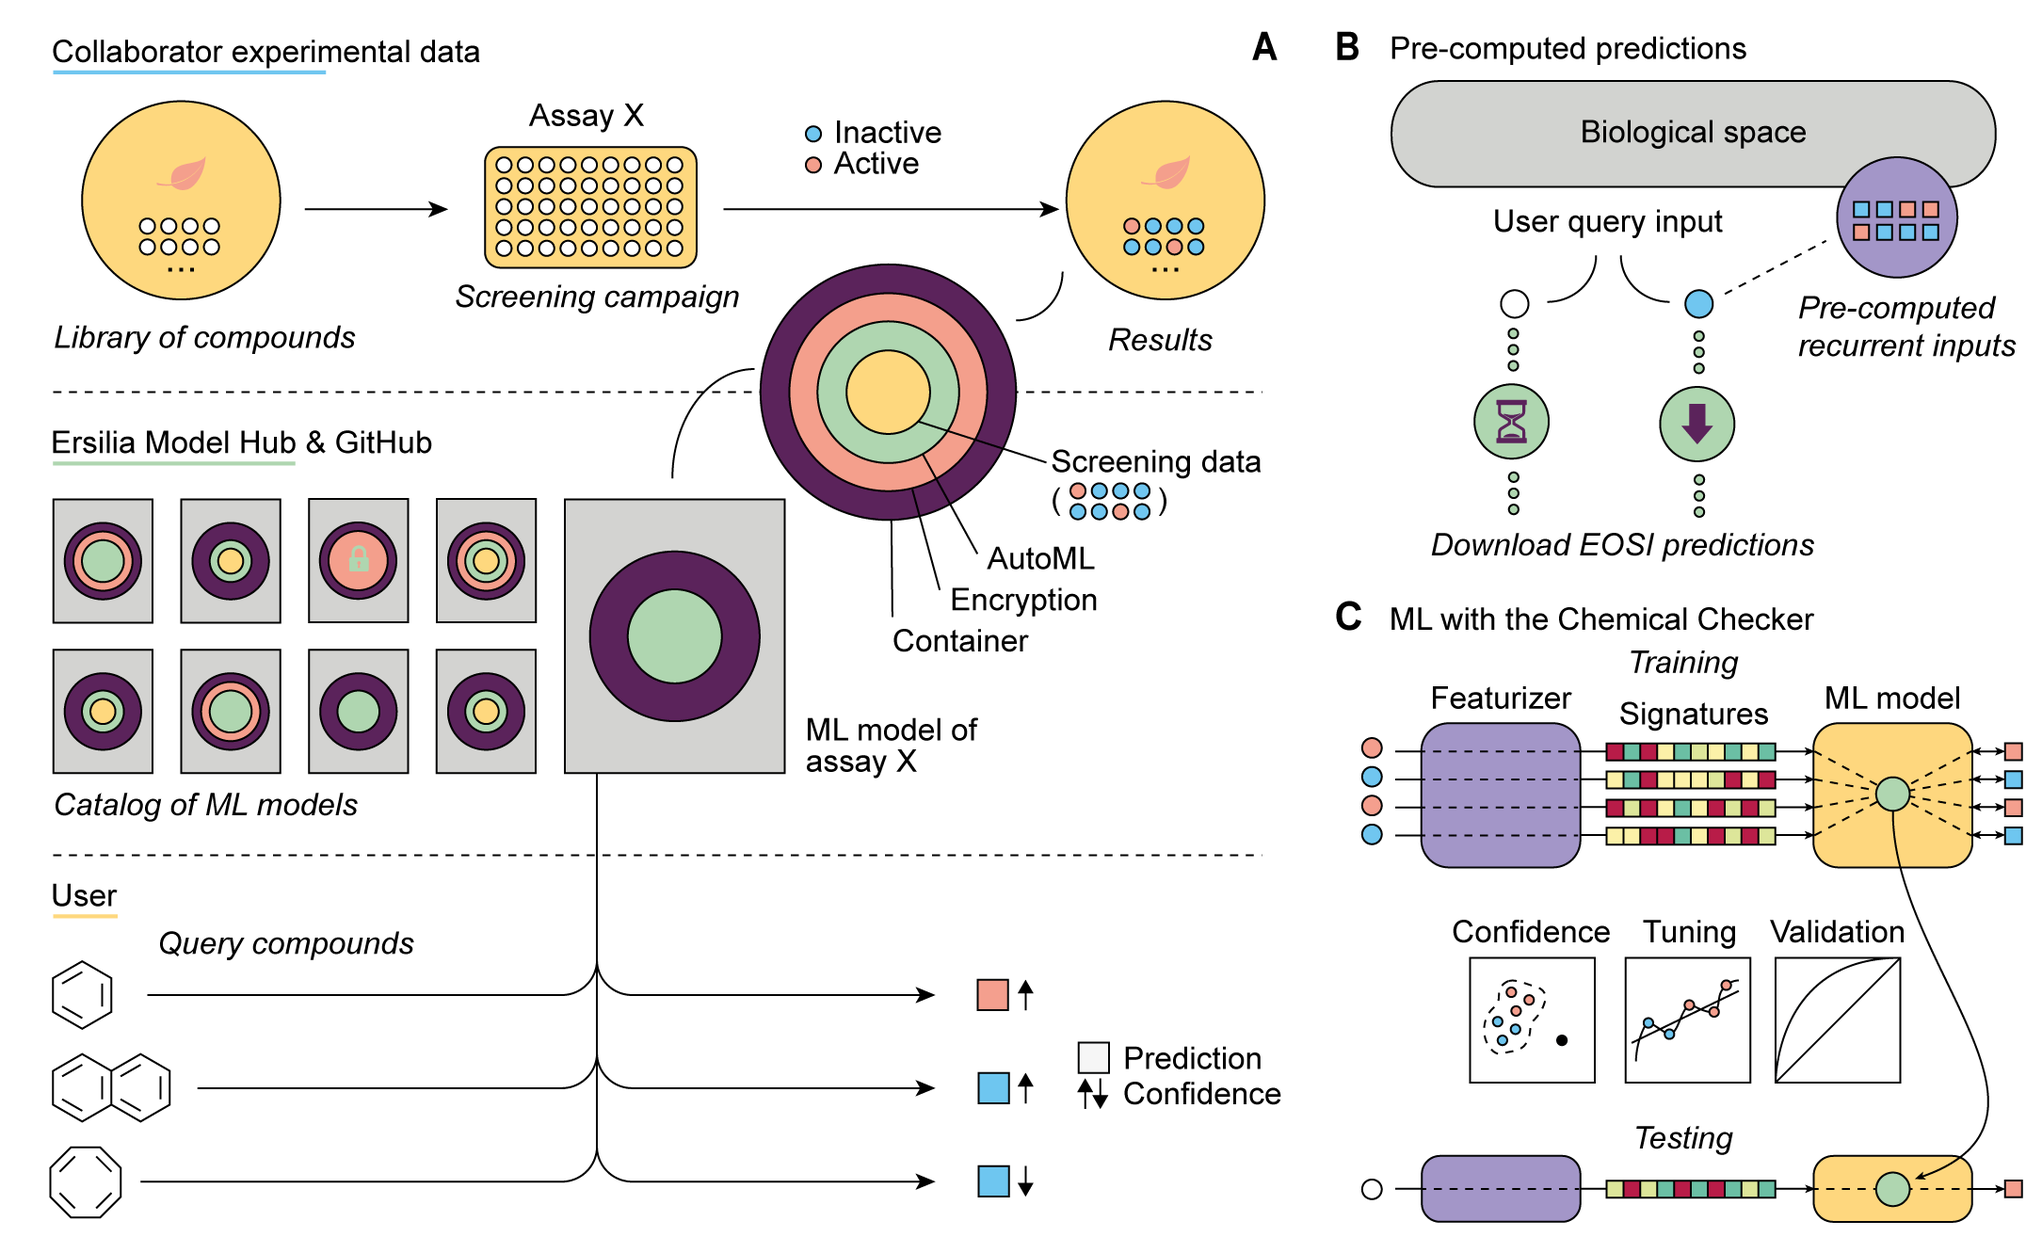
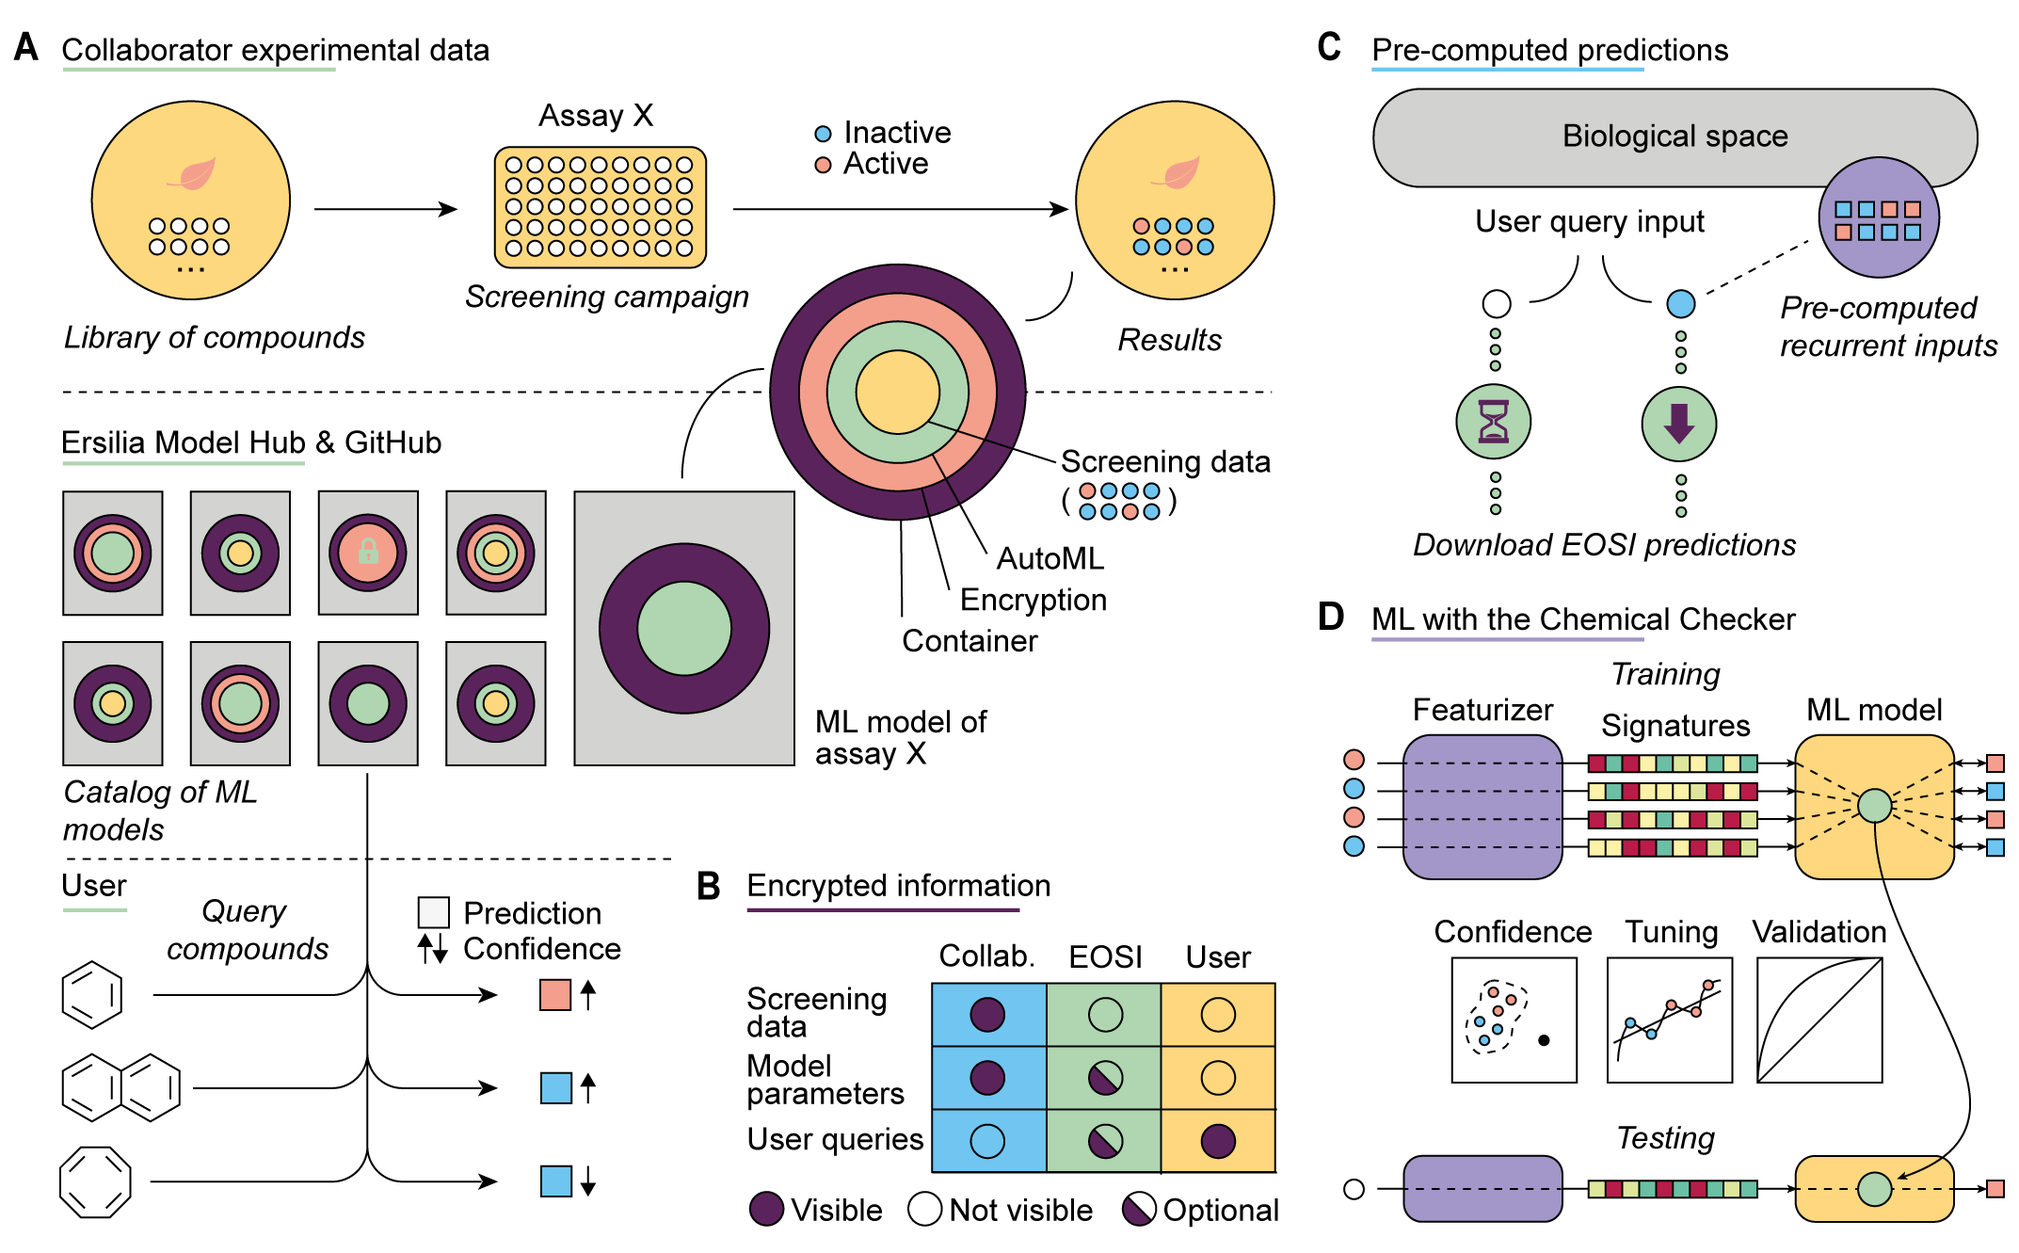
GSoC updated image

diff --git a/docs/gsoc-project-ideas.md b/docs/gsoc-project-ideas.md
@@ -1,20 +1,20 @@
 # Project ideas for the Google Summer of Code
 ## An introduction to the Ersilia Model Hub
-The Ersilia Model Hub is a web-based platform maintained by Ersilia Open Source Initiative. It features Machine Learning Models for biomedicine and drug discovery, with a focus on infectious and neglected diseases. It’s aim is to bring ML closer to biomedical research and empower uninitiated researchers in the world of computational pharmacology.
+The Ersilia Model Hub is a web-based platform maintained by Ersilia Open Source Initiative (EOSI). It features Machine Learning (ML) models for biomedicine and drug discovery, with a focus on infectious and neglected diseases. Its aim is to bring ML closer to biomedical research and empower uninitiated researchers in the world of computational pharmacology.
 
 To get a feeling of what we do, you can scroll through our documentation and have a look at the preliminary version of the platform [here](https://ersilia-hub.netlify.app).
 
-If you want to get inspired,see previous work we have done in the field and the potential impact of the project, please do read some of our [academic publications]( https://ersilia-hub.netlify.app/publications). We hope they are interesting to you even if you don’t have a background in life sciences!
+If you want to get inspired, see our previous work and understand the potential impact of the project, please do read some of our [academic publications]( https://ersilia-hub.netlify.app/docs/publications). We hope they are appealing to you even if your background is not in life sciences!
 
 ### Technical details of the Hub
-Before you continue reading, find below a few specifications of the Ersilia Model Hub:
+Before continuing, find below a few specifications of the Ersilia Model Hub:
 * Alpha release, scheduled 21st of March 2021, will contain 10 models related to drug discovery collected from the scientific literature.
 * Beta release, scheduled 23rd of September 2021, will contain at least 100 models, 50% of them developed in-house in collaboration with research laboratories worldwide.
 * Our code is available on [GitHub](https://github.com/ersilia-os). We use [GitHub Actions](https://github.com/features/actions) and [CircleCI](https://circleci.com) for CI/CD.
 * We do not have an ML framework of choice. We have experience with conventional Python libraries such as [SciKit Learn](https://scikit-learn.org/stable/) as well as deep learning libraries like [TensorFlow](https://www.tensorflow.org/), [Keras](https://keras.io/) and [PyTorch](https://pytorch.org/).
 Models are containerized with [Docker](https://www.docker.com/). We also use [Conda](https://www.anaconda.com/) environments.
-* To bring models to production, we use [BentoML](https://bentoml.ai), a framework-agnostic platform for model deployment.
-* We store predictions in [DynamoDB](https://aws.amazon.com/dynamodb/) database.
+* To bring models to production, we use [BentoML](https://www.bentoml.ai), a framework-agnostic platform for model deployment.
+* We store predictions in a [DynamoDB](https://aws.amazon.com/dynamodb/) database.
 * The Ersilia Model Hub website is built with [Vue.js](https://vuejs.org/).
 * ML models are deployed in the cloud. Provisionally, we use [Heroku](https://www.heroku.com/), although we have plans for migration to [Google Cloud](https://cloud.google.com/) in the following months.
 
@@ -30,12 +30,18 @@ We have listed some ideas to inspire students, but we welcome project proposals 
 * Required skills: Python, Docker
 * Mentors: Miquel, Gemma
 
+#### Background
+A key step towards our mission is the deployment of ML models as intuitive, user-friendly web applications to be used by biologists, clinicians and pharmacologists with no coding expertise. Our goal is to achieve 100 models by September 2021, and hopefully we will have over 500 by the end of the year. We are convinced that such a resource will be transformative for the daily life of many laboratories worldwide (think about the number of laborious and costly experiments that could be avoided or accelerated with the aid of ML, and about the number of laboratories in low-resourced settings that would benefit from a free tool that runs on the cloud). However, designing an App de novo for each of the models is not feasible and, more importantly, it would end up being confusing for the user. We prefer a unified format and aesthetics for all of our models, even if they tackle very different problems (drug toxicity prediction, identification of key mutations in cancer cells, etc.). [HuggingFace](https://huggingface.co/) is a good example of a platform with a unified inference API and web interface.
+
 #### Project description
-A key step towards our mission is the deployment of ML models as intuitive, user-friendly web applications to be used by biologists, clinicians and pharmacologists with no coding expertise.
 
-Our goal is to achieve 100 models by September 2021, and hopefully we will have over 500 by the end of the year. We are convinced that such a resource will be transformative for the daily life of many laboratories worldwide. Think about the number of laborious and costly experiments that could be avoided or accelerated with the aid of ML, and think about the number of laboratories in low-resourced settings that would benefit from a free tool that runs on the cloud. However, designing an App de novo for each of the models is not feasible and, more importantly, it would end up being confusing for the user. We prefer a unified format and aesthetics for all of our models, even if they tackle very different problems (drug toxicity prediction, identification of key mutations in cancer cells, etc.). [HuggingFace](https://huggingface.co/) is a good example of a platform with a unified inference API and web interface.
+In this project, the student is offered the opportunity to develop a Python library for the (semi)automated generation of front-end interface for our pre-trained ML models. A typical ML Ersilia model takes as input a short text describing a small molecule (a drug, for instance) and returns as output a short text corresponding to a predicted property of the molecule, e.g a drug side effect. Our current solution is based on the great and simple [StreamLit](https://www.streamlit.io/) library, but we welcome [Dash](https://dash.plotly.com/), [Vue.js](https://vuejs.org/) or any other option, actually!
 
-In this project, the student is offered the opportunity to develop a Python library for the (semi)automated generation of front-end interface for our pre-trained ML models. A typical ML Ersilia model is bundled with [BentoML](https://bentoml.ai) and takes as input a short text describing a small molecule (a drug, for instance) and returns as output a short text corresponding to a predicted property of the molecule, for instance a potential drug side effect. Our current solution is based on the great and simple [StreamLit](https://www.streamlit.io/) library, but we welcome [Dash](https://dash.plotly.com/), [Vue.js](https://vuejs.org/) or any other option, actually!
+#### Expected outcomes:
+Keep your proposal realistic, the allocated working time is 175h, so we do not necessarily expect your proposal to fulfil all the items below:
+* Homogeneous front-end interface format defined.
+* App integration for existing Models
+* Automated generation of web interfaces for new models
 
 ### Idea 2: A large-scale database of pre-computed predictions across the Ersilia Model Hub
 
@@ -43,34 +49,68 @@ In this project, the student is offered the opportunity to develop a Python libr
 * Required skills: Python, NoSQL
 * Mentors: Miquel, Edoardo
 
-#### Project description
+#### Background
 We have been in the field of biomedicine for long enough now to realize that many scientists focus on the [same genes](https://www.nature.com/articles/d41586-017-07291-9), molecules, diseases and pathogens over and over again. Some topics and research questions are simply more fashionable and queried more often. In the context of the Ersilia Model Hub, this means that (1) certain ML models will be more popular than others and (2) some inputs will be recurrently entered by users. Running predictions takes time and resources, no matter how good you are at bringing your model to production. It makes sense to try to anticipate user queries through a database of pre-computed predictions, so that when users enter a popular input they will get an output with minimal latency.
 
+#### Project description
 In this project, the student will build such a database, including the most popular models of the Ersilia Model Hub and the most likely inputs for these models. At project commencement, we will provide the student with a predefined set of models and inputs. The student will run large-scale prediction tasks and store the outputs in a database. We expect the schema of the database to be simple, with a plain (model, input) key and flexible attributes fields, corresponding to a diversity of output structures, depending on the model. We believe that a NoSQL database is ideal for this task. Currently, we are experimenting with [DynamoDB](https://aws.amazon.com/dynamodb/), although we are open to suggestions (e.g. [Cloud Bigtable](https://cloud.google.com/bigtable)). Load balancing, scaling and low storage cost are a priority.
 
 The number of possible queries for our Hub is not infinite, but it is very large. Consider that we will have 100 models by September 2021. As for inputs, there are over 20,000 genes in the human genome, and the number of existing small molecules surpasses the 100 million; to this, one should add thousands of known diseases, cell types and pathogens. Thus, prioritization of model-input pairs is essential. Although we do have a predefined list of popular models and likely inputs, this has been hand made based on our experience and intuition. Depending on the progress of the project, we would be very interested in exploring more dynamic, data-driven ways of prioritizing tasks for pre-computed predictions. We are widely open to suggestions here. One possibility would be to survey the public domain (datasets, literature, etc.) with the goal of identifying the most popular entities in the current scientific landscape. Another possibility would be to capture actual user queries in the Ersilia Model Hub.
 
-### Idea 3: Transfer learning and AutoML to populate the Ersilia Model Hub
+#### Expected outcomes:
+Keep your proposal realistic, the allocated working time is 175h, so we do not necessarily expect your proposal to fulfil all the items below:
+* NoSQL database scheme for storing predictions.
+* Precomputation of a number of given tasks.
+* Model development to identify most queried biological entities.
+* Pipeline to prioritize predictions based on the Ersilia Model Hub usage.
+
+### Idea 3: Encryption of sensible biological information
+
+* Level: Intermediate
+* Required skills: Python, TensorFlow
+* Mentors: Miquel, Gemma
+
+#### Background
+A key resource for Open Source research in drug discovery is the accessibility to libraries of compounds enriched in hits. Pharma companies have, over the years, collected and curated collections of potential hits that now constitute their main asset, and is therefore of utmost importance to identify avenues by which Open Source projects could benefit from this knowledge without compromising the industry’s IP.
+
+#### Project description
+In this project, the student will develop an automated encryption protocol for such libraries, latest advances in encrypted computation and homomorphic encryption applied to the field of ML: [PySyft](https://github.com/OpenMined/PySyft) or [TF-encrypted](https://tf-encrypted.io/ )
+
+#### Expected outcomes:
+Keep your proposal realistic, the allocated working time is 175h, so we do not necessarily expect your proposal to fulfil all the items below:
+* Encryption model for molecule information (structure, function, interactors etc.)
+* Encryption model for genetic information (genotyping, transcriptomics analysis etc.)
+* Automated protocol for feeding encrypted information to the Chemical Checker (see below).
+
+### Idea 4: Transfer learning and AutoML to populate the Ersilia Model Hub
 
 * Level: Advanced
 * Technical requirements: Python, TensorFlow, MLOps, Kubernetes
 * Mentors: Miquel
 
-#### Project description
-
+#### Background
 At Ersilia, we believe that the best science is done in [collaboration](https://www.sciencemag.org/careers/2012/07/how-collaborate) with others. We partner with researchers in laboratories and hospitals worldwide, and help them adopt ML assets customized to their needs. Key to the successful implementation of this approach is the quality of the models built by our team, and also the scaling-up of our capacity to collaborate with more than a handful laboratories at a time. To this aim, we are currently developing a fully-automated pipeline (AutoML) that should allow us to provide state-of-the-art ML models out of the box, in an end-to-end fashion. This sounds far-fetched (it would certainly be in many scenarios), but please take into account that our team has a 9-year long experience in the (relatively narrow) field of computational biology, which means that by now we have come up with a pipeline that encodes for the necessary expert-rules. In particular, our methodology builds upon the [Chemical Checker](https://bioactivitysignatures.org), a resource of ‘bioactivity signatures’ [developed](https://www.nature.com/articles/s41587-020-0502-7) by us and recently published in a high-profile journal like Nature Biotechnology. The Ersilia AutoML methodology applies ‘transfer learning’ from the Chemical Checker and is able to assign a confidence score to predictions, intrinsically prevents overfitting and outputs cross-validated performance reports. In the MoleculeNet benchmark dataset, a primitive version of this pipeline has shown [outstanding performance](https://www.biorxiv.org/content/10.1101/2020.07.21.214197v2.full); in a recent [DREAM Challenge](http://dreamchallenges.org/) (CTD-squared Pancancer Activity Prediction), the Chemical Checker was a [top-performing](https://www.biorxiv.org/content/10.1101/2020.12.21.423514v2) team.
 
+#### Project description
 In this project, the student will be responsible for bringing our current pipeline (which is, quite honestly, just a prototype) to [MLOps](https://cloud.google.com/solutions/machine-learning/mlops-continuous-delivery-and-automation-pipelines-in-machine-learning) standards. Thus, the pipeline implemented by the student should bring together all of the steps of the ML life cycle, including training, tuning, validation and deployment of ML models. As challenging as this may sound, this project is a crucial step in our 2021 roadmap and we can guarantee in-depth supervision, assistance and guidance. And ¡no panic!, nothing will be done from scratch. Many of the steps (for example, hyper-parameter validation) are already available as Docker containers and it is just a matter of orchestrating them with Kubernetes or the likes.
 
+#### Expected outcomes:
+Keep your proposal realistic, the allocated working time is 175h, so we do not necessarily expect your proposal to fulfil all the items below:
+* Training protocols containerized in Docker.
+* Validation protocols containerized in Docker.
+* Deployment protocols (including front-end interface from Idea1) containerized in Docker.
+* Pipeline orchestration of all steps for model generation.
+
+### Figure 1. Overview of the Ersilia Model Hub
 ![GSoC](./assets/gsoc.png)
-Figure 1.Overview of the Ersilia Model Hub (A) As an idealized example, we show a screening campaign (assay X) performed by one of our collaborators. Some hit molecules are identified while the majority of screened compounds are inactive. EOSI’s end-to-end ML pipeline will revisit the complete screening dataset. The resulting ML model of assay X will be incorporated into the Ersilia Model Hub. In addition, the model will be discoverable through other popular repositories such as GitHub, furthering Open Science. The end User will be able to interact with the model of assay X querying compounds and obtaining an active/inactive prediction (with a confidence score). (B) The user query will fall in one of the following categories; 1) unknown molecule for which the model has to predict the activity 2) frequently queried molecule for which EOSI has stored the output. The time between input and result varies significantly from one scenario to another. (C) State-of-the-art ML models are enabled by Chemical Checker signatures, acting as a ‘transfer learning’ intermediate step for robust training. EOSI’s ML pipeline estimates confidence of prediction, automatically tunes model parameters, and provides validation reports.
+(A) As an idealized example, we show a screening campaign (assay X) performed by one of our collaborators. Some hit molecules are identified while the majority of screened compounds are inactive. EOSI’s end-to-end ML pipeline will revisit the complete screening dataset. The resulting ML model of assay X will be incorporated into the Ersilia Model Hub. In addition, the model will be discoverable through other popular repositories such as GitHub, furthering Open Science. The end User will be able to interact with the model of assay X querying compounds and obtaining an active/inactive prediction (with a confidence score).(B) Visibility of computational assets of the project, including screening results, model parameters and predictions. (C) The user query will fall in one of the following categories; 1) unknown molecule for which the model has to predict the activity 2) frequently queried molecule for which EOSI has stored the output. The time between input and result varies significantly from one scenario to another. (D) State-of-the-art ML models are enabled by Chemical Checker signatures, acting as a ‘transfer learning’ intermediate step for robust training. EOSI’s ML pipeline estimates confidence of prediction, automatically tunes model parameters, and provides validation reports.
 
 ## Next steps
 
-If any of the ideas above has tickled you, or the EOSI mission has motivated you to apply with us for this edition of GSoC, here are the next steps!
+If any of the ideas above has tickled you, or you are particularly motivated by EOSI's mission, apply with us for this edition of GSoC! Here are the next steps:
 
 1. Introduce yourself
-Join our [Slack group](https://ersilia-workspace.slack.com), particularly the #gsoc_general channel, and say hi! We want to know who you are, your background, interests… and what motivated you to join our team.
+Join our [Slack group](https://ersilia-workspace.slack.com), particularly the #gsoc_general channel, and say Hi. We want to know who you are, your background, interests… and what motivated you to join our team.
 
 2. Contact the mentors
 You can also write private messages to any of the mentors using the slack private channels. Don’t be shy, we are there to solve your questions.
